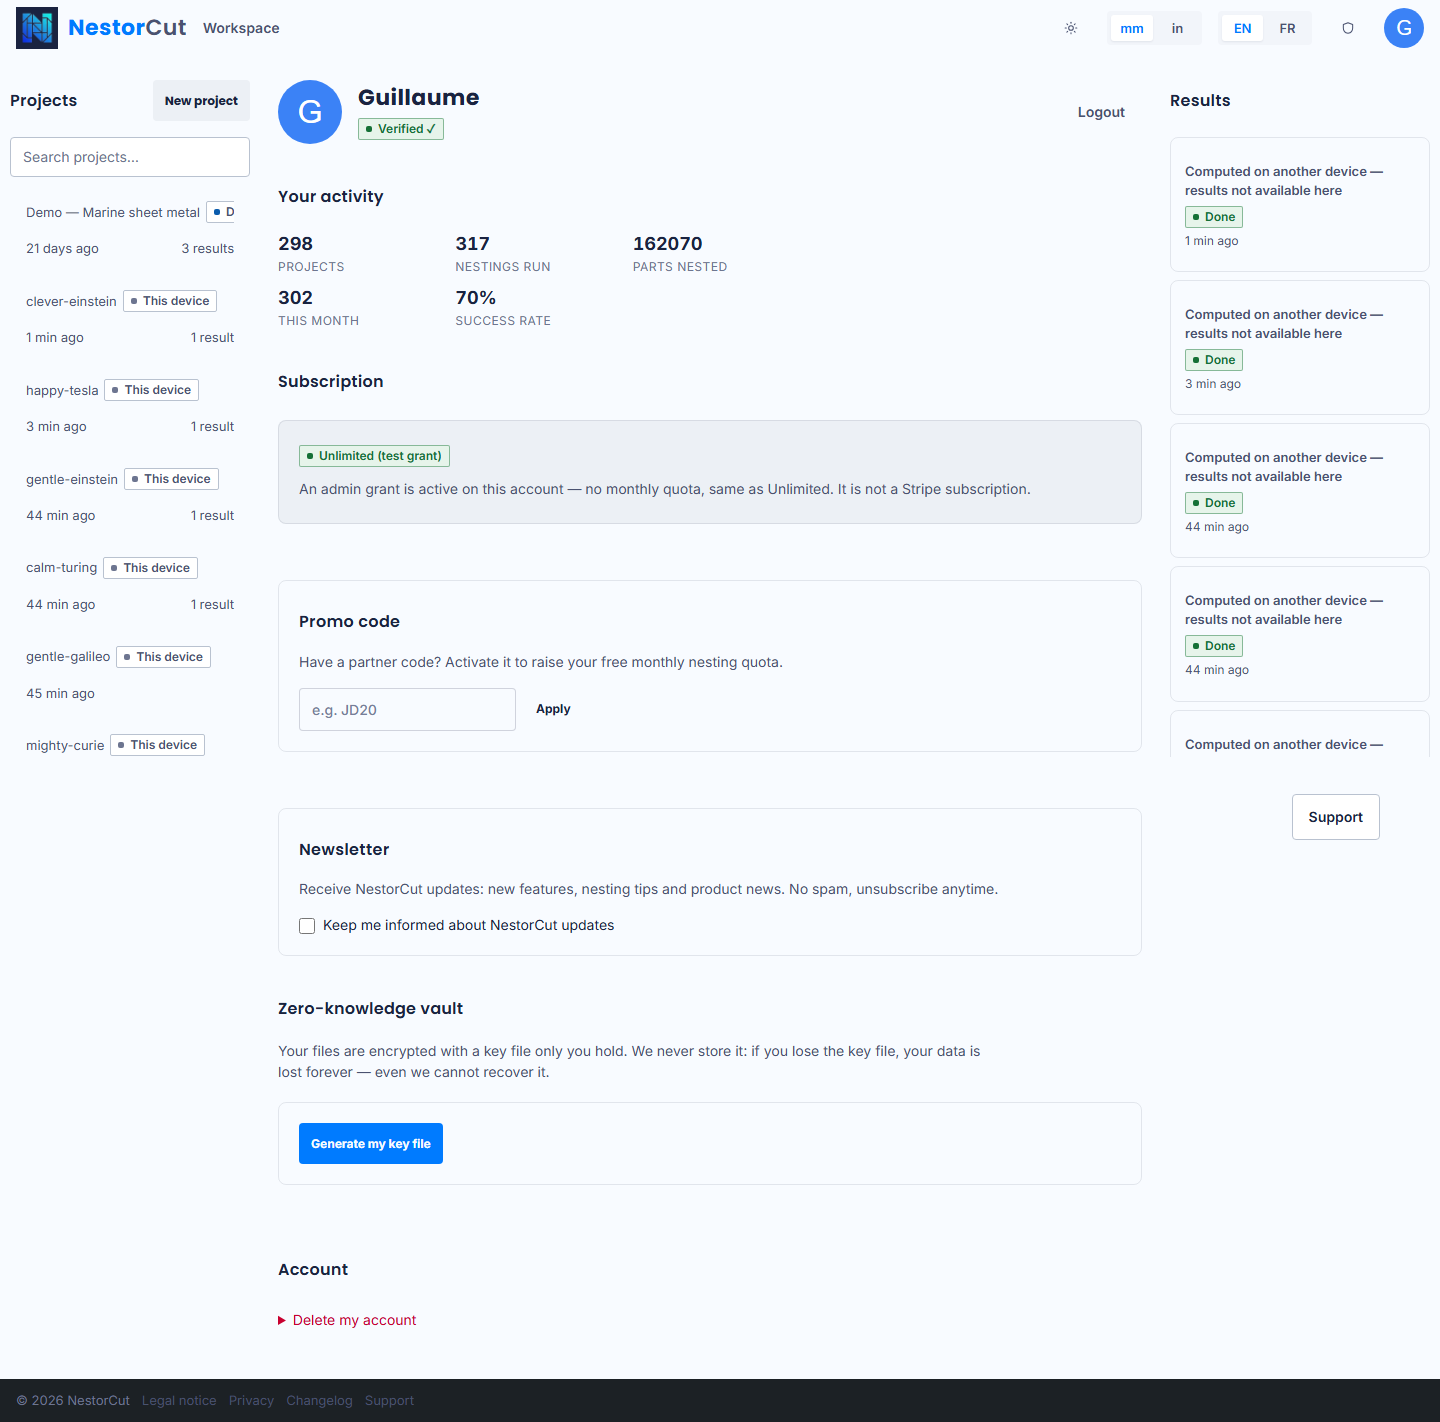
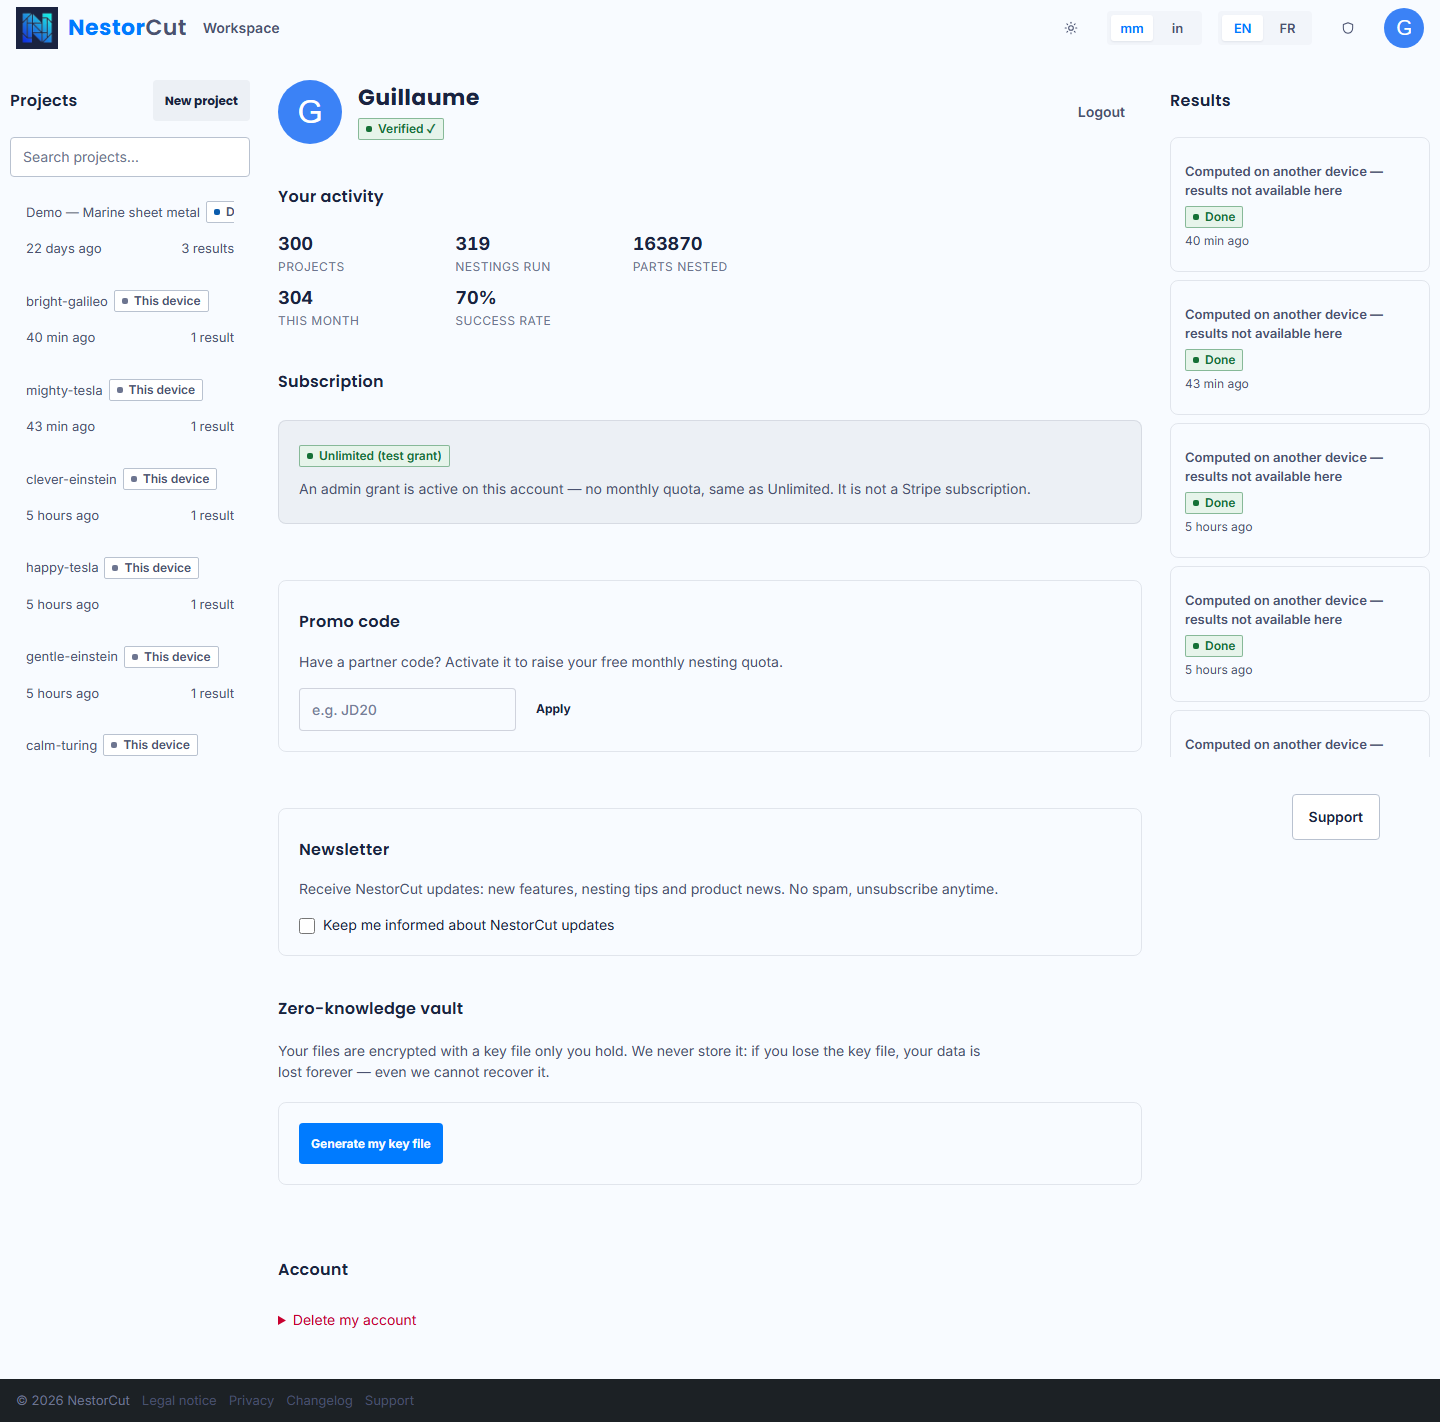
docs(ui): U2-ter — captures reprises après rebuild local sur arbre propre
Demande propriétaire : s'assurer que le build local est bien à jour avant
de capturer. Image reconstruite à HEAD (2026-09-08 20:03 UTC) puis toutes
les captures reprises.

Contrôle sur le CSS réellement construit : 0 occurrence de
border-radius:50% dans tout .output/public/_nuxt/*.css ; radius-full ne
subsiste que dans Avatar.css (la règle avatar) et entry.css (la
définition du jeton).

u2ter-reglages / u2ter-abonnement / u2ter-projet ressortent octet pour
octet identiques au premier tirage — l'interface n'a pas bougé entre les
deux builds ; seules les captures montrant la liste des projets diffèrent.

Claude-Session: https://claude.ai/code/session_016YuTuXzitgogVS1uUJVoz3

diff --git a/docs/PLAN-UI-PRO-2026-09-07.md b/docs/PLAN-UI-PRO-2026-09-07.md
@@ -489,6 +489,25 @@ production modifié) :
   suit bien `emailVerified`) ;
 - `u2ter-compte-neuf-accueil.png` — accueil du même compte.
 
+Toutes les captures ci-dessus ont été **reprises après un rebuild de
+l'image locale sur un arbre propre à HEAD** (image du 2026-09-08 20:03 UTC)
+— demande propriétaire, et à raison : les dates de fichier ne prouvent
+rien ici, `git add` réécrit les fichiers en CRLF et rajeunit leur mtime.
+Contrôle direct sur le CSS RÉELLEMENT construit :
+
+```
+grep -c 'border-radius:50%' .output/public/_nuxt/*.css   → 0 partout
+grep -l 'radius-full'       .output/public/_nuxt/*.css   → Avatar.css (la règle
+                                                            avatar) + entry.css
+                                                            (la définition du jeton)
+```
+
+`u2ter-reglages.png`, `u2ter-abonnement.png` et `u2ter-projet.png` sont
+ressorties **octet pour octet identiques** au premier tirage : l'interface
+n'a pas bougé entre les deux builds (seules les captures qui montrent la
+liste des projets diffèrent — de nouveaux projets de test s'y sont
+ajoutés).
+
 Le build déployé, lui, est attesté côté prod par le contrôle du CSS servi
 et les trois captures publiques ci-dessus. **Résidu confirmé à l'œil sur
 `u2ter-projet.png`** : dans la colonne Projets, « Demo — Marine sheet
